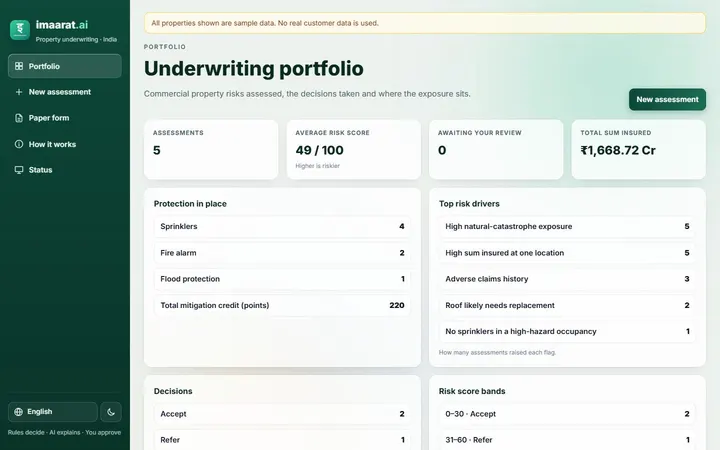
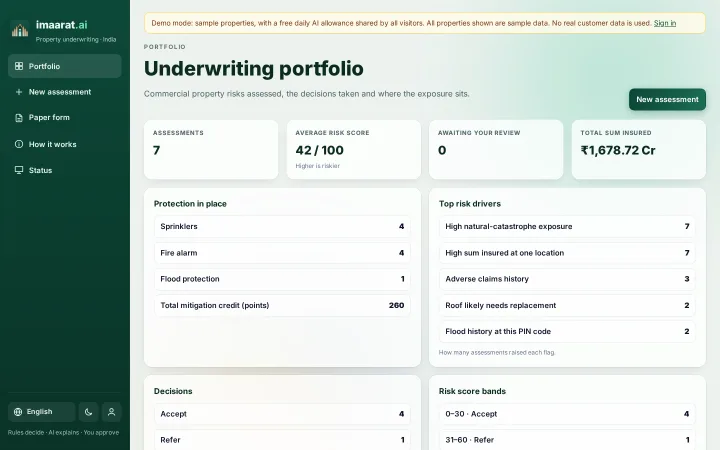
Refresh home page screenshots

diff --git a/backend/app/__init__.py b/backend/app/__init__.py
@@ -1,3 +1,3 @@
 """Imaarat underwriting package."""
 
-__version__ = "2.48.1"
+__version__ = "2.48.2"

diff --git a/CHANGELOG.md b/CHANGELOG.md
@@ -2,6 +2,11 @@
 
 All notable changes to Imaarat. Versions follow [Semantic Versioning](https://semver.org/) and the format follows [Keep a Changelog](https://keepachangelog.com/en/1.1.0/).
 
+## [2.48.2] - 2026-10-12
+
+### Changed
+- The product screenshots on the home page show the current app: the portfolio, an assessment result, the paper form and the new status charts.
+
 ## [2.48.1] - 2026-10-12
 
 ### Changed
